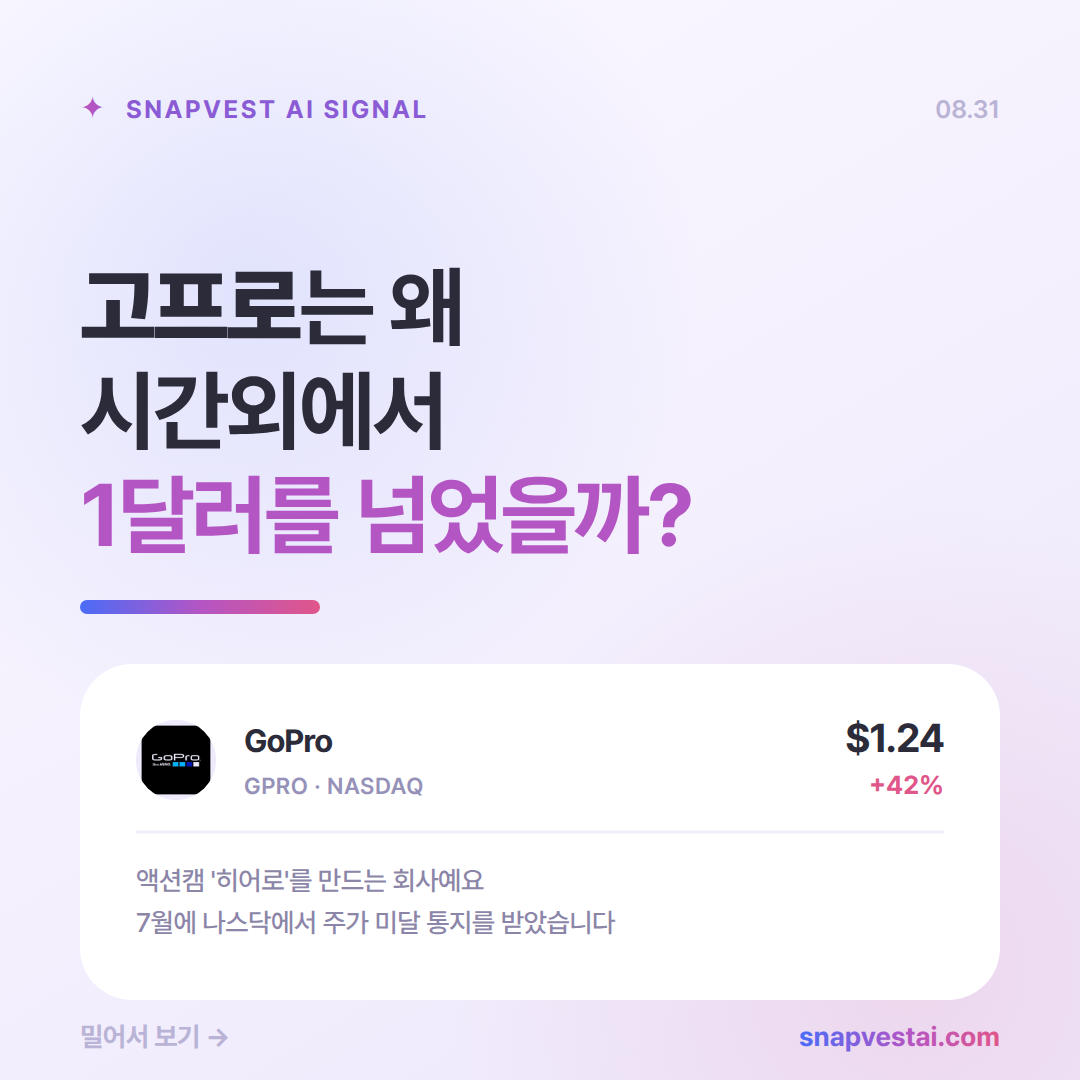
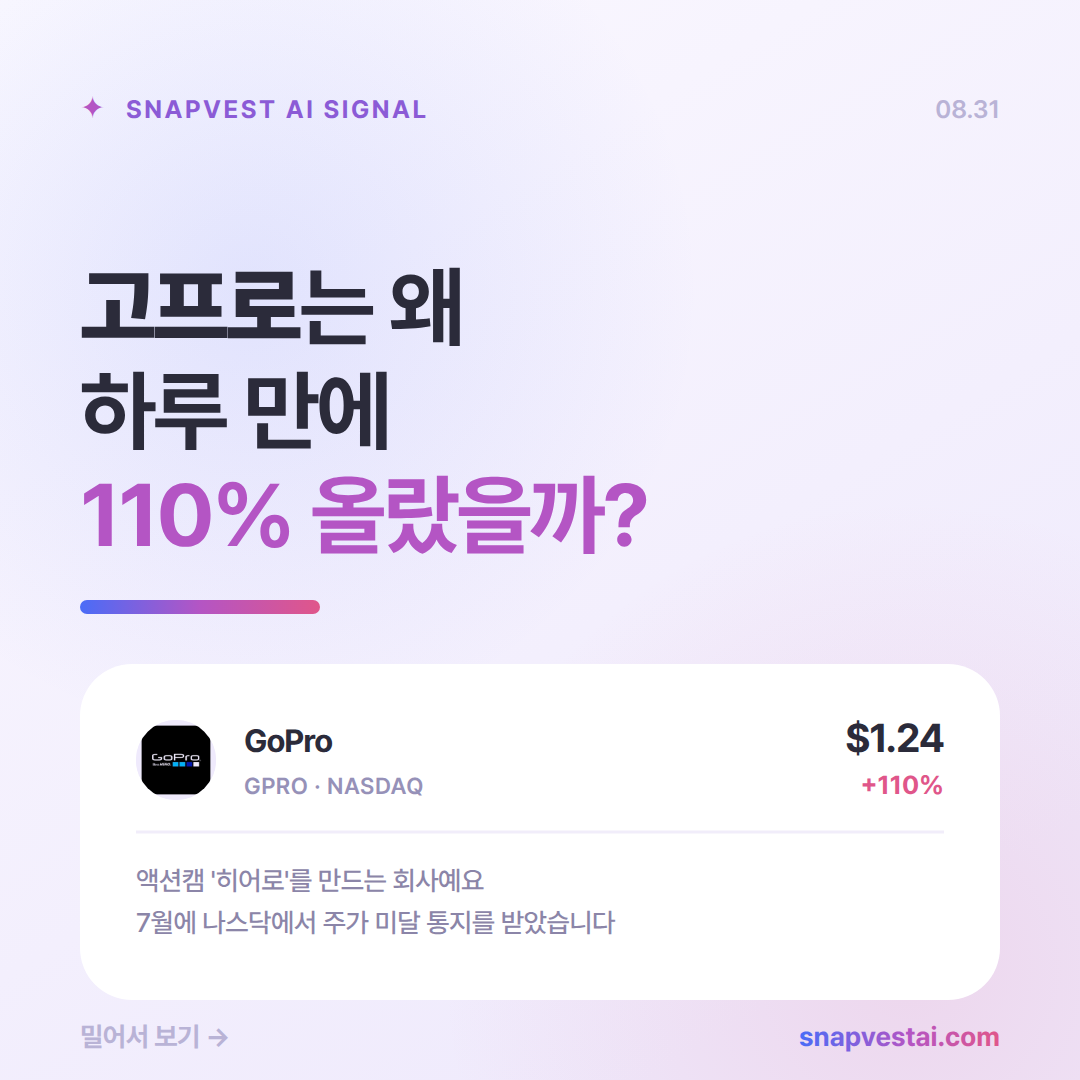
cardnews: 고프로 표지 문구 변경 · 2번 카드 사진 교체
- 표지를 '1달러를 넘었을까' 에서 '하루 만에 110% 올랐을까' 로 변경.
  배지 기준도 전 거래일 종가 $0.59 대비로 맞춰 +42%(정규장 대비) -> +110% 로 통일
- 2번 카드 사진을 제품컷에서 전시장 GoPro 사이니지로 교체
- 블로그 도입부에 전일 대비 110% 프레임 추가

Claude-Session: https://claude.ai/code/session_01RMiKh4knUhoRQtbEt8tjeA

Changed region(s): [[0.0611, 0.3361, 0.6417, 0.5194], [0.7944, 0.7028, 0.8556, 0.7333]]

diff --git a/cardnews/make_photos.py b/cardnews/make_photos.py
@@ -20,7 +20,7 @@ LAV = (239, 234, 252)          # #EFEAFC
 # 크롭은 원본 픽셀 기준 (left, top, right, bottom). 안 쓰면 None.
 # 스톡 이미지에 오탈자·워터마크·엉뚱한 축 라벨이 박혀 있으면 여기서 잘라낸다.
 JOBS = [
-    ("gopro1.jpg", 1000, 290, "photo-company.jpg", (28, 62, 336, 282)),  # 2번 카드 · 히어로4 제품컷 (가로로 잘라 크게)
+    ("gopro3.jpg", 1000, 290, "photo-company.jpg", (0, 55, 909, 466)),  # 2번 카드 · 전시장 GoPro 사이니지
     ("gopro2.jpg", 1000, 372, "photo-reason.jpg",  (0, 58, 340, 282)),  # 3번 카드 · 수중 촬영 (가로로 잘라 크게)
 ]
 

diff --git a/cardnews/SOURCES.md b/cardnews/SOURCES.md
@@ -2,7 +2,8 @@
 
 ## ⚠ 이 회차는 시간외 값이다
 
-표지의 **$1.24 · +42%** 는 8월 31일 **시간외 거래 중** 값이다.
+표지의 **$1.24 · +110%** 는 8월 31일 **시간외 거래 중** 값이다.
+표지 문구(`하루 만에 110% 올랐을까?`)와 배지 기준을 **전 거래일 종가 $0.59 대비**로 맞췄다.
 정규장 종가는 **$0.87 (+45.82%)**, 시간외는 그 대비 +41.7%, 전일 종가 $0.59 대비 **+110%**.
 마감 후 값을 받으면 price · change · 마지막 봉을 고쳐 다시 렌더한다.
 
